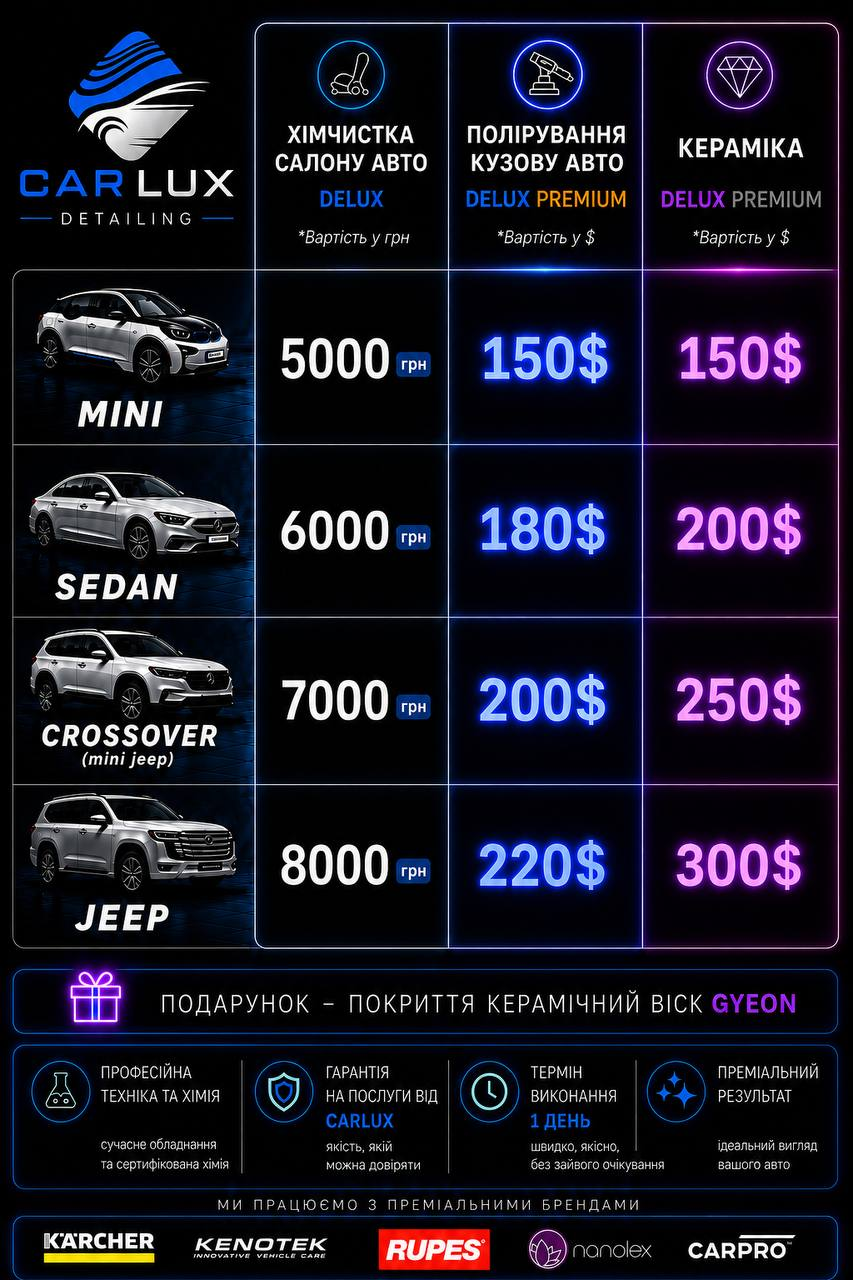
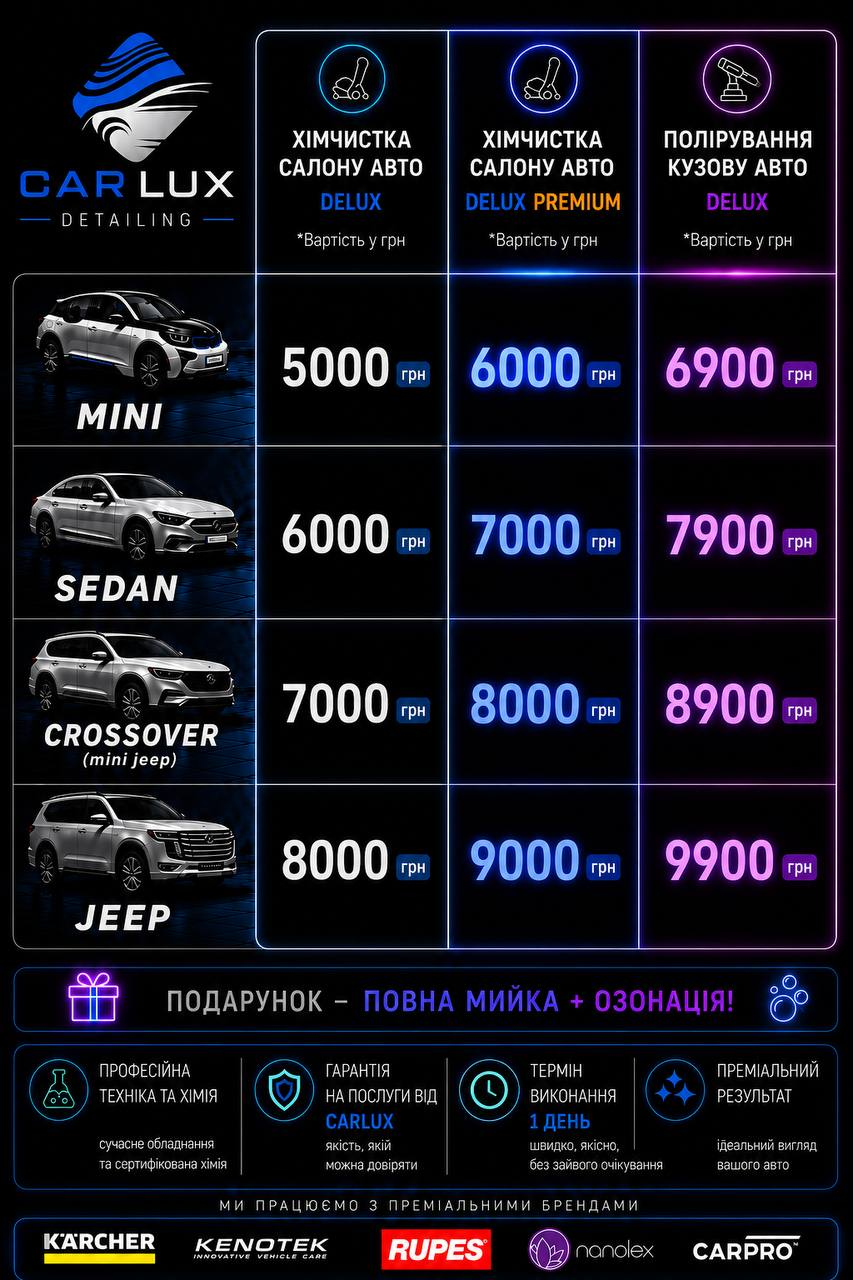
бьт т

diff --git a/poliruvannya/src/css/theme-warm.css b/poliruvannya/src/css/theme-warm.css
@@ -128,9 +128,61 @@ img, iframe, svg, video{ max-width: 100%; height: auto; }
   .btn.main-btn, .pv2-cta-btn{ width:100%; text-align:center; }
 }
 
+/* ---------- модалки: текст був білим на світлому фоні -> робимо темним і читабельним ---------- */
+.modal-content{ color:#1B2436; }
+.modal .modal-body,
+.modal .modal-body p,
+.modal .modal-body li,
+.modal .modal-body strong,
+.modal .modal-body span{
+  color:#1B2436 !important;
+}
+.modal .modal-body table td, .modal .modal-body table th{
+  color:#1B2436 !important;
+}
+.modal .modal-header .modal-title{ color:#fff !important; }
+/* поля вводу всередині будь-якої модалки (замовлення, дзвінок) */
+.modal .form-body input,
+.modal .form-body select{
+  background:#fff !important;
+  color:#1B2436 !important;
+  border:1px solid #d7dbe3 !important;
+}
+.modal .form-body input::placeholder{ color:#7C8494 !important; }
+.modal .form-body select{ color:#1B2436 !important; }
+.modal .form-body select option{ color:#1B2436; background:#fff; }
+
+/* ---------- клієнти: контрастніше на мобільній ---------- */
+.clients img{
+  box-shadow: 0 0 0 1px rgba(255,255,255,.06);
+}
+@media (max-width: 767px){
+  .clients img{
+    max-height: 56px !important;
+    width:auto !important;
+    padding: 12px !important;
+    box-shadow: 0 4px 14px -4px rgba(0,0,0,.5);
+  }
+}
+
+/* ---------- заголовок "Про нас" — трохи більший відступ зверху ---------- */
+.about-us{ padding-top: 70px !important; }
+@media (max-width: 767px){
+  .about-us{ padding-top: 56px !important; }
+}
+
 /* маленький підпис над великим заголовком (напр. "ДЕТЕЙЛІНГ ПОСЛУГИ") трохи приглушений */
 h2.h2-sb span:first-child:not(:only-child){
   color: var(--w-warm) !important;
+}
+
+/* ---------- лінії по боках для "Наші ціни" (двоскладовий h2-sb) — раніше їх не було ---------- */
+h2.h2-sb span:last-child:not(:only-child){
+  display:flex; align-items:center; gap:18px; width:100%;
+}
+h2.h2-sb span:last-child:not(:only-child)::before,
+h2.h2-sb span:last-child:not(:only-child)::after{
+  content:''; flex:1 1 auto; height:2px; background:currentColor; opacity:.5; border-radius:2px;
 }
 
 /* ---------- services ---------- */

diff --git a/src/css/theme-warm.css b/src/css/theme-warm.css
@@ -128,9 +128,61 @@ img, iframe, svg, video{ max-width: 100%; height: auto; }
   .btn.main-btn, .pv2-cta-btn{ width:100%; text-align:center; }
 }
 
+/* ---------- модалки: текст був білим на світлому фоні -> робимо темним і читабельним ---------- */
+.modal-content{ color:#1B2436; }
+.modal .modal-body,
+.modal .modal-body p,
+.modal .modal-body li,
+.modal .modal-body strong,
+.modal .modal-body span{
+  color:#1B2436 !important;
+}
+.modal .modal-body table td, .modal .modal-body table th{
+  color:#1B2436 !important;
+}
+.modal .modal-header .modal-title{ color:#fff !important; }
+/* поля вводу всередині будь-якої модалки (замовлення, дзвінок) */
+.modal .form-body input,
+.modal .form-body select{
+  background:#fff !important;
+  color:#1B2436 !important;
+  border:1px solid #d7dbe3 !important;
+}
+.modal .form-body input::placeholder{ color:#7C8494 !important; }
+.modal .form-body select{ color:#1B2436 !important; }
+.modal .form-body select option{ color:#1B2436; background:#fff; }
+
+/* ---------- клієнти: контрастніше на мобільній ---------- */
+.clients img{
+  box-shadow: 0 0 0 1px rgba(255,255,255,.06);
+}
+@media (max-width: 767px){
+  .clients img{
+    max-height: 56px !important;
+    width:auto !important;
+    padding: 12px !important;
+    box-shadow: 0 4px 14px -4px rgba(0,0,0,.5);
+  }
+}
+
+/* ---------- заголовок "Про нас" — трохи більший відступ зверху ---------- */
+.about-us{ padding-top: 70px !important; }
+@media (max-width: 767px){
+  .about-us{ padding-top: 56px !important; }
+}
+
 /* маленький підпис над великим заголовком (напр. "ДЕТЕЙЛІНГ ПОСЛУГИ") трохи приглушений */
 h2.h2-sb span:first-child:not(:only-child){
   color: var(--w-warm) !important;
+}
+
+/* ---------- лінії по боках для "Наші ціни" (двоскладовий h2-sb) — раніше їх не було ---------- */
+h2.h2-sb span:last-child:not(:only-child){
+  display:flex; align-items:center; gap:18px; width:100%;
+}
+h2.h2-sb span:last-child:not(:only-child)::before,
+h2.h2-sb span:last-child:not(:only-child)::after{
+  content:''; flex:1 1 auto; height:2px; background:currentColor; opacity:.5; border-radius:2px;
 }
 
 /* ---------- services ---------- */

diff --git a/index.html b/index.html
@@ -440,7 +440,7 @@ src="https://www.facebook.com/tr?id=785101158357215&ev=PageView&noscript=1"
 			</h2>
 
 			<div class="pv2-photo">
-				<img src="src/img/price-table.jpg" alt="Ціни CarLux Detailing: хімчистка салону авто Standart+ і Standart LUX, полірування кузова Rupes, кераміка для класів Mini, Sedan, Crossover, Jeep у Львові" loading="lazy">
+				<img src="src/img/price-table.jpg" alt="Ціни CarLux Detailing: хімчистка салону авто Delux і Delux Premium, полірування кузова Delux для класів Mini, Sedan, Crossover, Jeep у Львові" loading="lazy">
 				<p class="sr-only">Ціни на послуги CarLux Detailing у Львові: хімчистка салону авто (Standart+ та Standart LUX) для класів Mini, Sedan, Crossover, Jeep; полірування кузова системою Rupes; нанесення кераміки. Точну вартість для вашого авто уточнюйте за телефоном або в заявці на сайті.</p>
 			</div>
 
